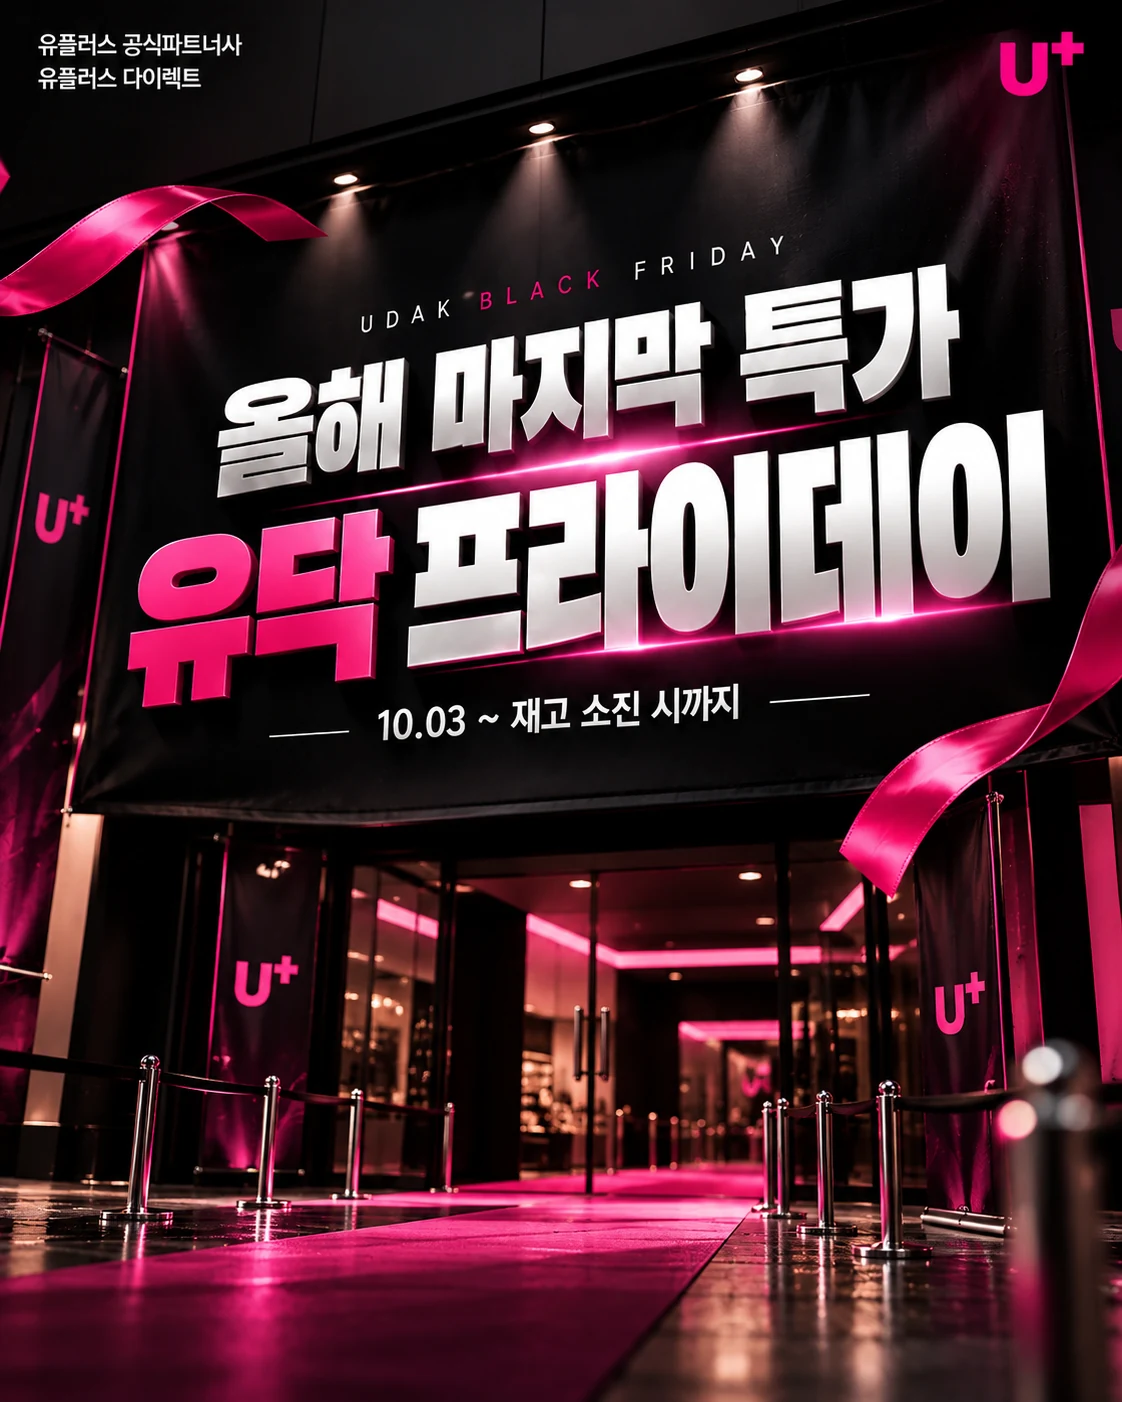
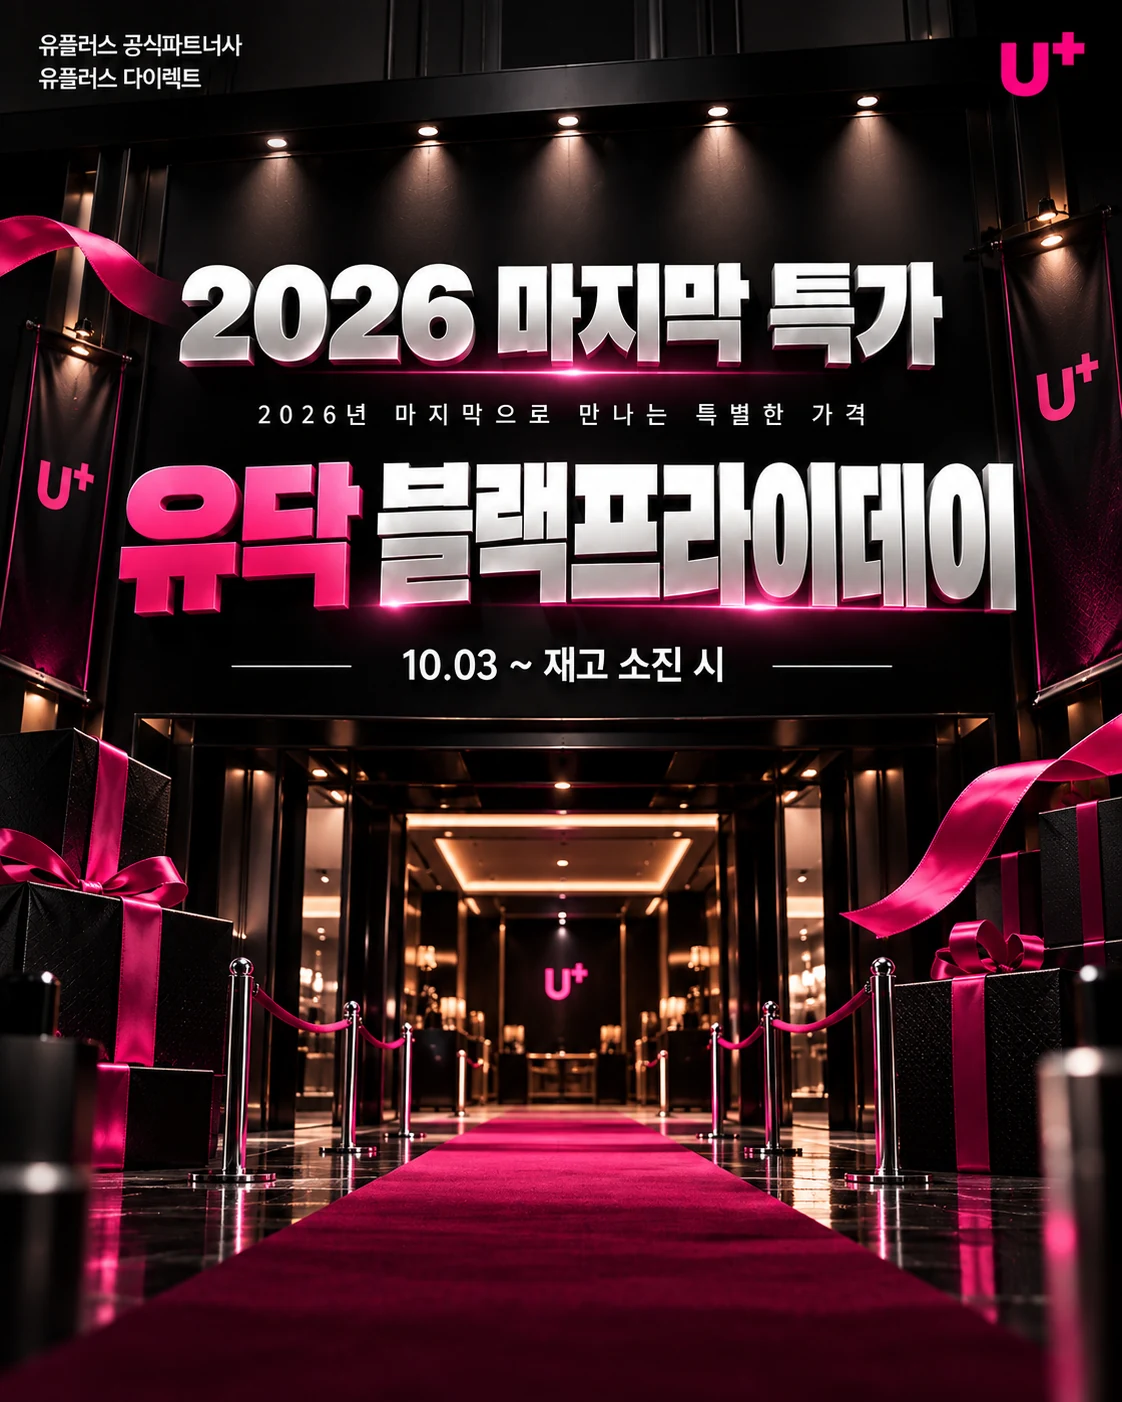
landing: 정면 배너를 '2026 유닥 블랙프라이데이' 이미지로 교체 + 상단 네비게이션을 '유플러스 다이렉트란?/온라인 구매 절차가 궁금해요./제품은 어떻게 받는거에요?' 3항목으로 변경(각각 /about·/about#steps·/about#delivery 연결). about.html에 steps·delivery 앵커와 해시 스크롤 추가

diff --git a/galaxy_z8.html b/galaxy_z8.html
@@ -1081,7 +1081,12 @@ textarea.mform-input{resize:none;height:80px;}
   cursor: pointer;
   border-bottom: 2px solid transparent;
   transition: all 0.2s;
-  white-space: nowrap;
+  white-space: normal;
+  line-height: 1.25;
+  text-align: center;
+}
+@media (max-width: 520px) {
+  .top-nav-sub-item { font-size: 10.5px; padding: 9px 5px; gap: 3px; }
 }
 .top-nav-sub-item:not(:last-child) {
   border-right: 1px solid #f0f0f0;
@@ -1157,12 +1162,15 @@ textarea.mform-input{resize:none;height:80px;}
       <span></span><span></span><span></span>
     </button>
   </div>
-  <div class="top-nav-sub">
-    <div class="top-nav-sub-item onsite-hide" onclick="window.location.href='/about'">
-      유플러스 다이렉트란
+  <div class="top-nav-sub onsite-hide">
+    <div class="top-nav-sub-item" onclick="window.location.href='/about'">
+      유플러스 다이렉트란?
     </div>
-    <div class="top-nav-sub-item" onclick="uwtNavGoto('.ucat-wrap')">
-      핸드폰
+    <div class="top-nav-sub-item" onclick="window.location.href='/about#steps'">
+      온라인 구매 절차가 궁금해요.
+    </div>
+    <div class="top-nav-sub-item" onclick="window.location.href='/about#delivery'">
+      제품은 어떻게 받는거에요?
     </div>
   </div>
 </nav>
@@ -1178,7 +1186,13 @@ textarea.mform-input{resize:none;height:80px;}
   </div>
   <div class="nav-drawer-body">
     <div class="nav-drawer-item onsite-hide" onclick="window.location.href='/about'">
-      유플러스 다이렉트란
+      유플러스 다이렉트란?
+    </div>
+    <div class="nav-drawer-item onsite-hide" onclick="window.location.href='/about#steps'">
+      온라인 구매 절차가 궁금해요.
+    </div>
+    <div class="nav-drawer-item onsite-hide" onclick="window.location.href='/about#delivery'">
+      제품은 어떻게 받는거에요?
     </div>
     <div class="nav-drawer-item" onclick="uwtNavGoto('.ucat-wrap'); closeNavDrawer();">
       핸드폰
@@ -1223,7 +1237,7 @@ function closeNavDrawer() {
 }
 </style>
 <section class="intro-hero">
-  <img class="intro-hero-poster" src="/assets/udak-friday-hero.webp" width="1122" height="1402" alt="유닥 프라이데이 — 올해 마지막 특가, 10.03 ~ 재고 소진 시까지" fetchpriority="high" decoding="async">
+  <img class="intro-hero-poster" src="/assets/udak-friday-hero.webp" width="1122" height="1402" alt="2026 마지막 특가 — 유닥 블랙프라이데이, 10.03 ~ 재고 소진 시" fetchpriority="high" decoding="async">
   <img class="intro-hero-nocard" src="/assets/no-card-no-addon.webp" width="1774" height="887" alt="제휴카드 No! 부가서비스 의무가입 No!" decoding="async">
 </section>
 

diff --git a/about.html b/about.html
@@ -65,7 +65,7 @@ a{text-decoration:none;color:inherit;}
     <img class="aimgblock" src="https://raw.githubusercontent.com/sihwan5183-del/udak/main/assets/about-stores.png" alt="유플러스 다이렉트란? 서울·경기 직영매장 30개 운영">
   </div>
 
-  <div style="padding:0 20px;">
+  <div id="delivery" style="padding:0 20px;scroll-margin-top:72px;">
     <img class="aimgblock" src="https://raw.githubusercontent.com/sihwan5183-del/udak/main/assets/about-fast.png" alt="서울·경기 1위, 빠르게 받아보실 수 있습니다">
   </div>
 
@@ -77,7 +77,7 @@ a{text-decoration:none;color:inherit;}
     <img class="aimgblock" src="https://raw.githubusercontent.com/sihwan5183-del/udak/main/assets/about-whyudak.png" alt="왜 유닭인가요">
   </div>
 
-  <div style="padding:0 20px;">
+  <div id="steps" style="padding:0 20px;scroll-margin-top:72px;">
     <img class="aimgblock" src="https://raw.githubusercontent.com/sihwan5183-del/udak/main/assets/about-purchase-steps.png" alt="온라인 구매 절차, 이렇게 진행됩니다">
   </div>
 
@@ -88,4 +88,11 @@ a{text-decoration:none;color:inherit;}
 
 </div>
 
+<script>
+(function(){
+  function goHash(){ if(!location.hash) return; var el=document.querySelector(location.hash); if(el) el.scrollIntoView({behavior:'auto',block:'start'}); }
+  window.addEventListener('load', function(){ setTimeout(goHash, 60); });
+  window.addEventListener('hashchange', goHash);
+})();
+</script>
 </body></html>
